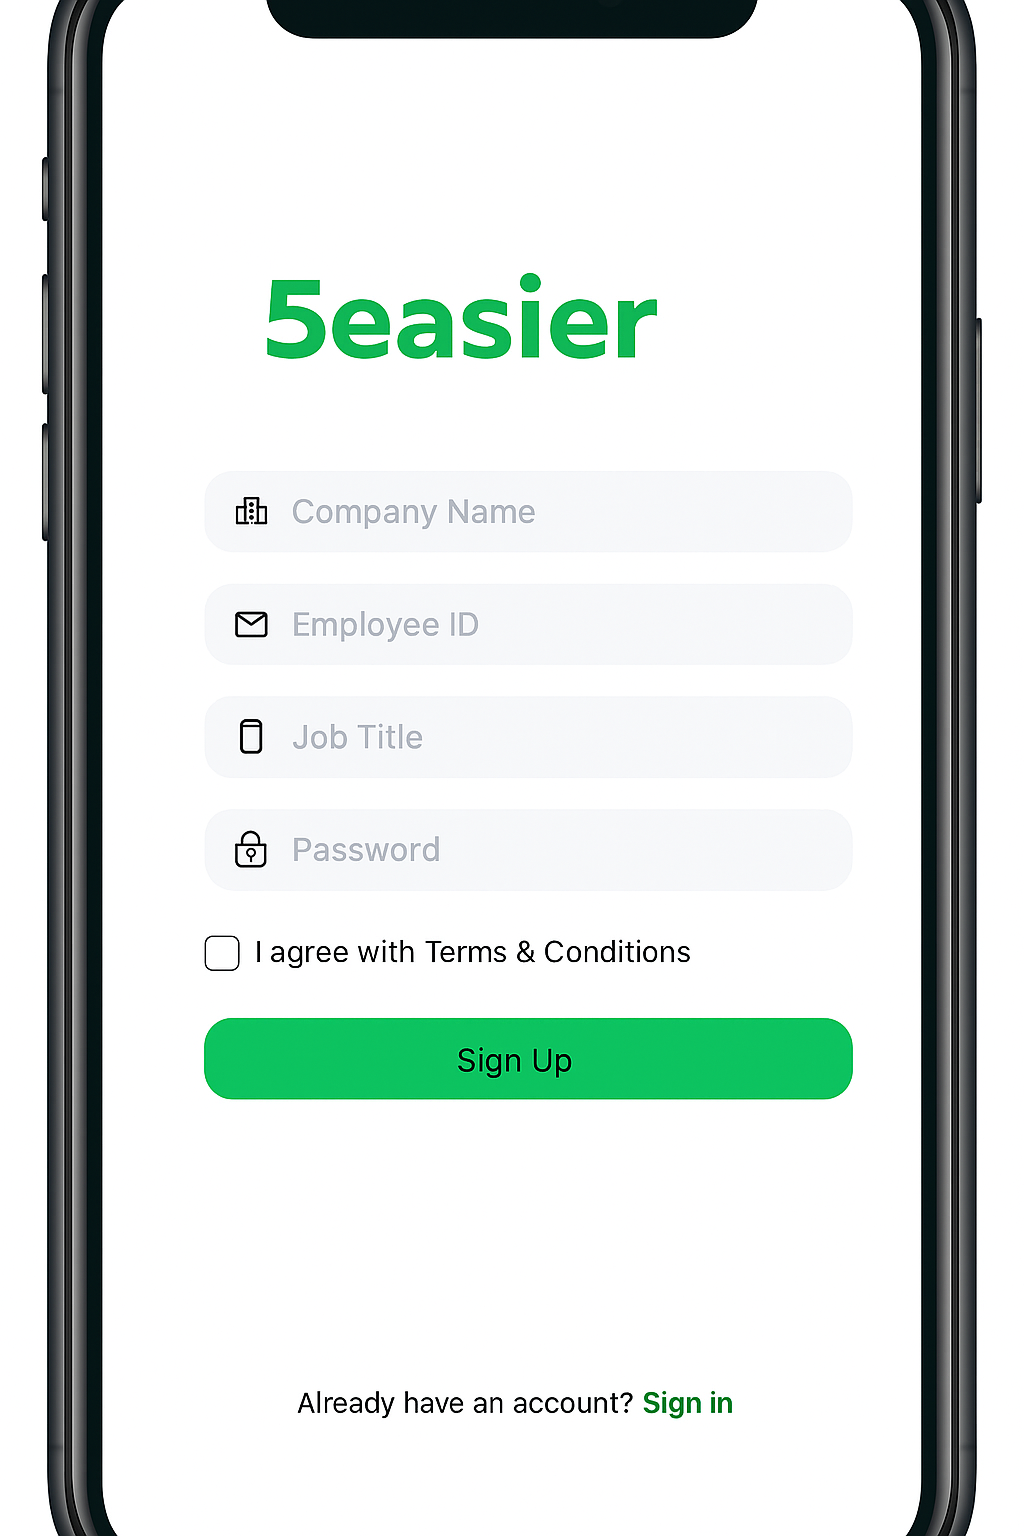
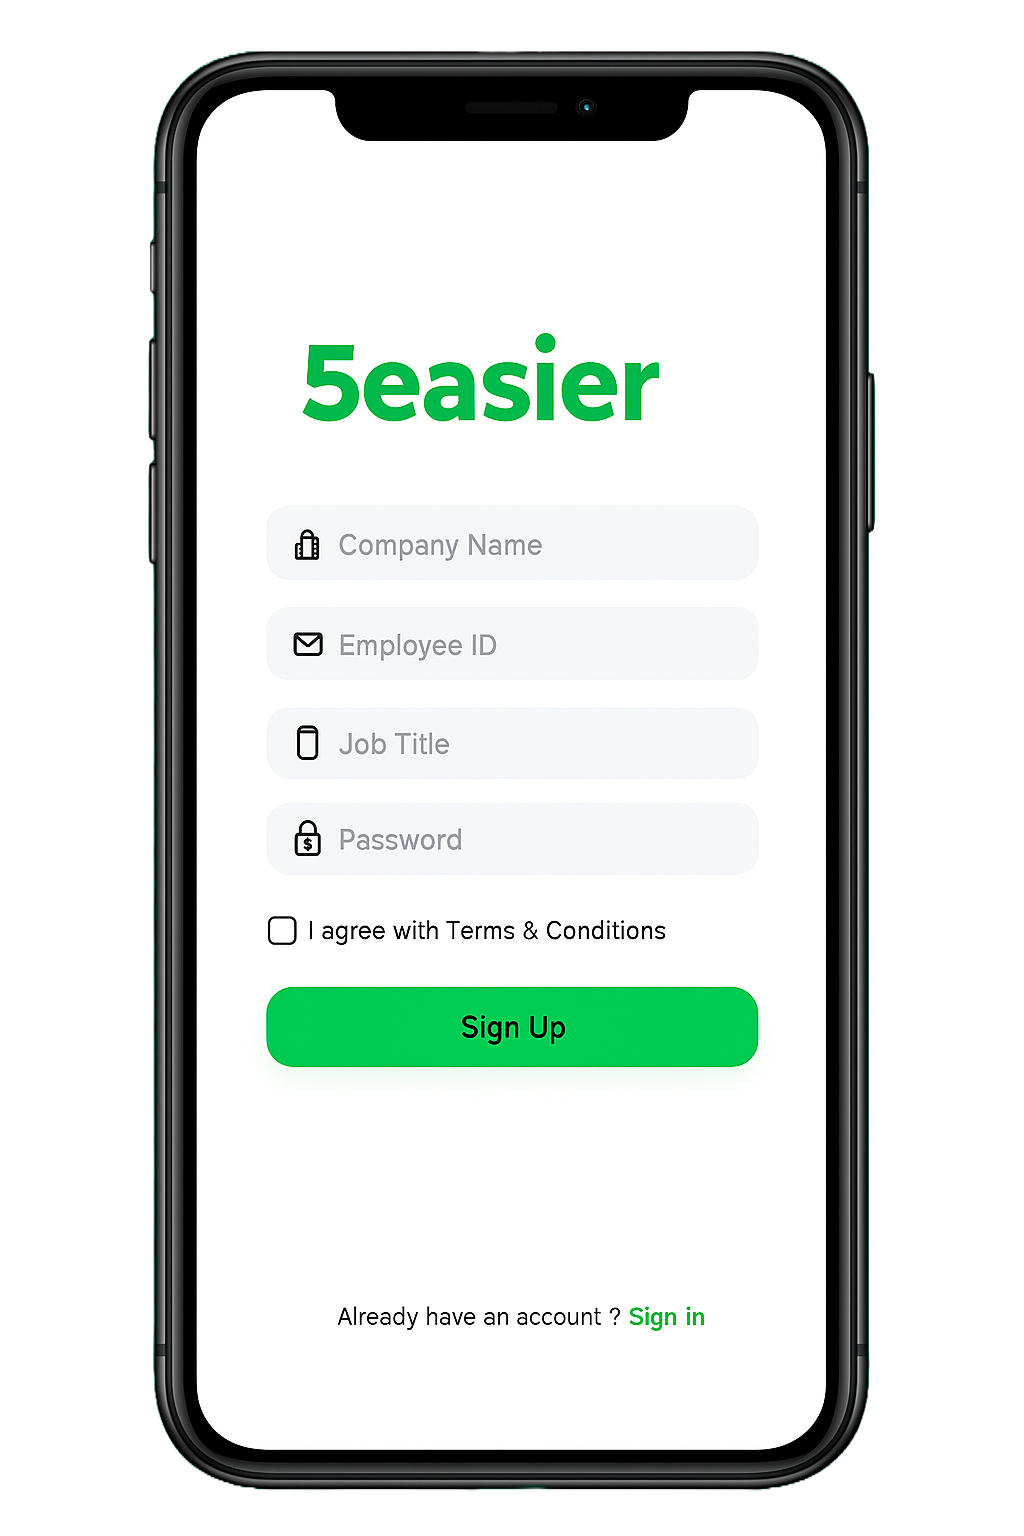
iamge fix

diff --git a/public/index.html b/public/index.html
@@ -135,7 +135,7 @@
     }
 
     .program-visuals img:last-child {
-      height: 400px;
+      height: 300px;
       width: auto;
       /* margin-right: 100px; */
     }
@@ -272,7 +272,7 @@
 
   <section class="program">
     <div class="program-visuals">
-      <img src="page3_image1.png" alt="Mobile App" />
+      <img src="123.png" alt="Mobile App" />
       <img src="page3_image2.png" alt="Dashboard" />
     </div>
     <h2>Digitalize your Safety Program</h2>
